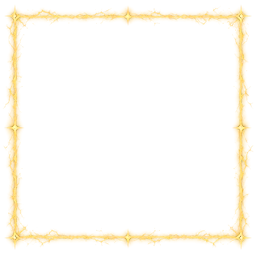
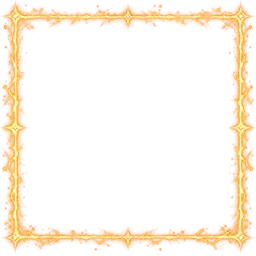
v4.34 +9 紅框、+10 金框，換上 AI 金框
Claude-Session: https://claude.ai/code/session_01LHm3vd4ZSoDW1S2tkVG4ge

Changed region(s): [[0.0, 0.0, 1.0, 1.0]]

diff --git a/src/style.css b/src/style.css
@@ -1699,7 +1699,7 @@ html.scrimmed .cbar{display:none}
 /* v4.27 村莊詳情「首次收復獎勵」佔滿一整列，375／393 寬不再換行 */
 .kvgrid .kv-wide{grid-column:1/-1}
 :root{--l0:#b9b1a3;--l1:#7fcf8c;--l2:#62a8ee;--l3:#ef5b4c;--l4:#c27ff0;--l5:#dff1ff;--l6:#f2b53c}
-/* v4.34 武器框顏色看強化等級：l0 灰、l1 綠(+1～+6)、l2 藍(+7～+8)、l6 金(+9)、l3 紅(+10)、l4 紫(+11)、l5 鑽石(+12) */
+/* v4.34 武器框顏色看強化等級：l0 灰、l1 綠(+1～+6)、l2 藍(+7～+8)、l3 紅(+9)、l6 金(+10)、l4 紫(+11)、l5 鑽石(+12) */
 .l0{color:var(--l0)}.l1{color:var(--l1)}.l2{color:var(--l2)}.l3{color:var(--l3)}.l4{color:var(--l4)}.l5{color:var(--l5);text-shadow:0 0 6px rgba(150,210,255,.55)}.l6{color:var(--l6)}
 .l0b{--qc:var(--l0)}.l1b{--qc:var(--l1)}.l2b{--qc:var(--l2)}.l3b{--qc:var(--l3)}.l4b{--qc:var(--l4)}.l5b{--qc:var(--l5)}.l6b{--qc:var(--l6)}
 .fpv .wt.l0b:not(#_){--f:url(art/ui/fp_gray_plain.webp)}.fpv .wt.l1b:not(#_){--f:var(--fN)}.fpv .wt.l2b:not(#_){--f:var(--fU)}.fpv .wt.l3b:not(#_){--f:var(--fR)}.fpv .wt.l4b:not(#_){--f:url(art/ui/fp_purple_plain.webp)}.fpv .wt.l5b:not(#_){--f:var(--fI)}.fpv .wt.l6b:not(#_){--f:var(--fG)}

diff --git a/src/tests.js b/src/tests.js
@@ -538,6 +538,6 @@ function runTests(mode){
   return `<div><b>${pass}/${r.res.length} 通過</b>（${r.ms} 毫秒）</div>`+resHtml(r.res);
 }
 // v4.34 武器框顏色看強化等級
-function frameLvTests(){if(typeof FLV==='undefined')return[];const exp={0:0,1:1,6:1,7:2,8:2,9:6,10:3,11:4,12:5,15:5},bad=Object.entries(exp).filter(([lv,f])=>FLV(+lv)!==f);
-  return[T('FL1 框色：+0 灰、+1～+6 綠、+7～+8 藍、+9 金、+10 紅、+11 紫、+12 鑽石',!bad.length,bad.length?'錯：'+bad.map(x=>'+'+x[0]).join('、'):'10 個等級都對')]}
+function frameLvTests(){if(typeof FLV==='undefined')return[];const exp={0:0,1:1,6:1,7:2,8:2,9:3,10:6,11:4,12:5,15:5},bad=Object.entries(exp).filter(([lv,f])=>FLV(+lv)!==f);
+  return[T('FL1 框色：+0 灰、+1～+6 綠、+7～+8 藍、+9 紅、+10 金、+11 紫、+12 鑽石',!bad.length,bad.length?'錯：'+bad.map(x=>'+'+x[0]).join('、'):'10 個等級都對')]}
 if(typeof module!=='undefined')module.exports={runAll,econReport,simulate,levelCheck};

diff --git a/tests.js b/tests.js
@@ -538,6 +538,6 @@ function runTests(mode){
   return `<div><b>${pass}/${r.res.length} 通過</b>（${r.ms} 毫秒）</div>`+resHtml(r.res);
 }
 // v4.34 武器框顏色看強化等級
-function frameLvTests(){if(typeof FLV==='undefined')return[];const exp={0:0,1:1,6:1,7:2,8:2,9:6,10:3,11:4,12:5,15:5},bad=Object.entries(exp).filter(([lv,f])=>FLV(+lv)!==f);
-  return[T('FL1 框色：+0 灰、+1～+6 綠、+7～+8 藍、+9 金、+10 紅、+11 紫、+12 鑽石',!bad.length,bad.length?'錯：'+bad.map(x=>'+'+x[0]).join('、'):'10 個等級都對')]}
+function frameLvTests(){if(typeof FLV==='undefined')return[];const exp={0:0,1:1,6:1,7:2,8:2,9:3,10:6,11:4,12:5,15:5},bad=Object.entries(exp).filter(([lv,f])=>FLV(+lv)!==f);
+  return[T('FL1 框色：+0 灰、+1～+6 綠、+7～+8 藍、+9 紅、+10 金、+11 紫、+12 鑽石',!bad.length,bad.length?'錯：'+bad.map(x=>'+'+x[0]).join('、'):'10 個等級都對')]}
 if(typeof module!=='undefined')module.exports={runAll,econReport,simulate,levelCheck};
